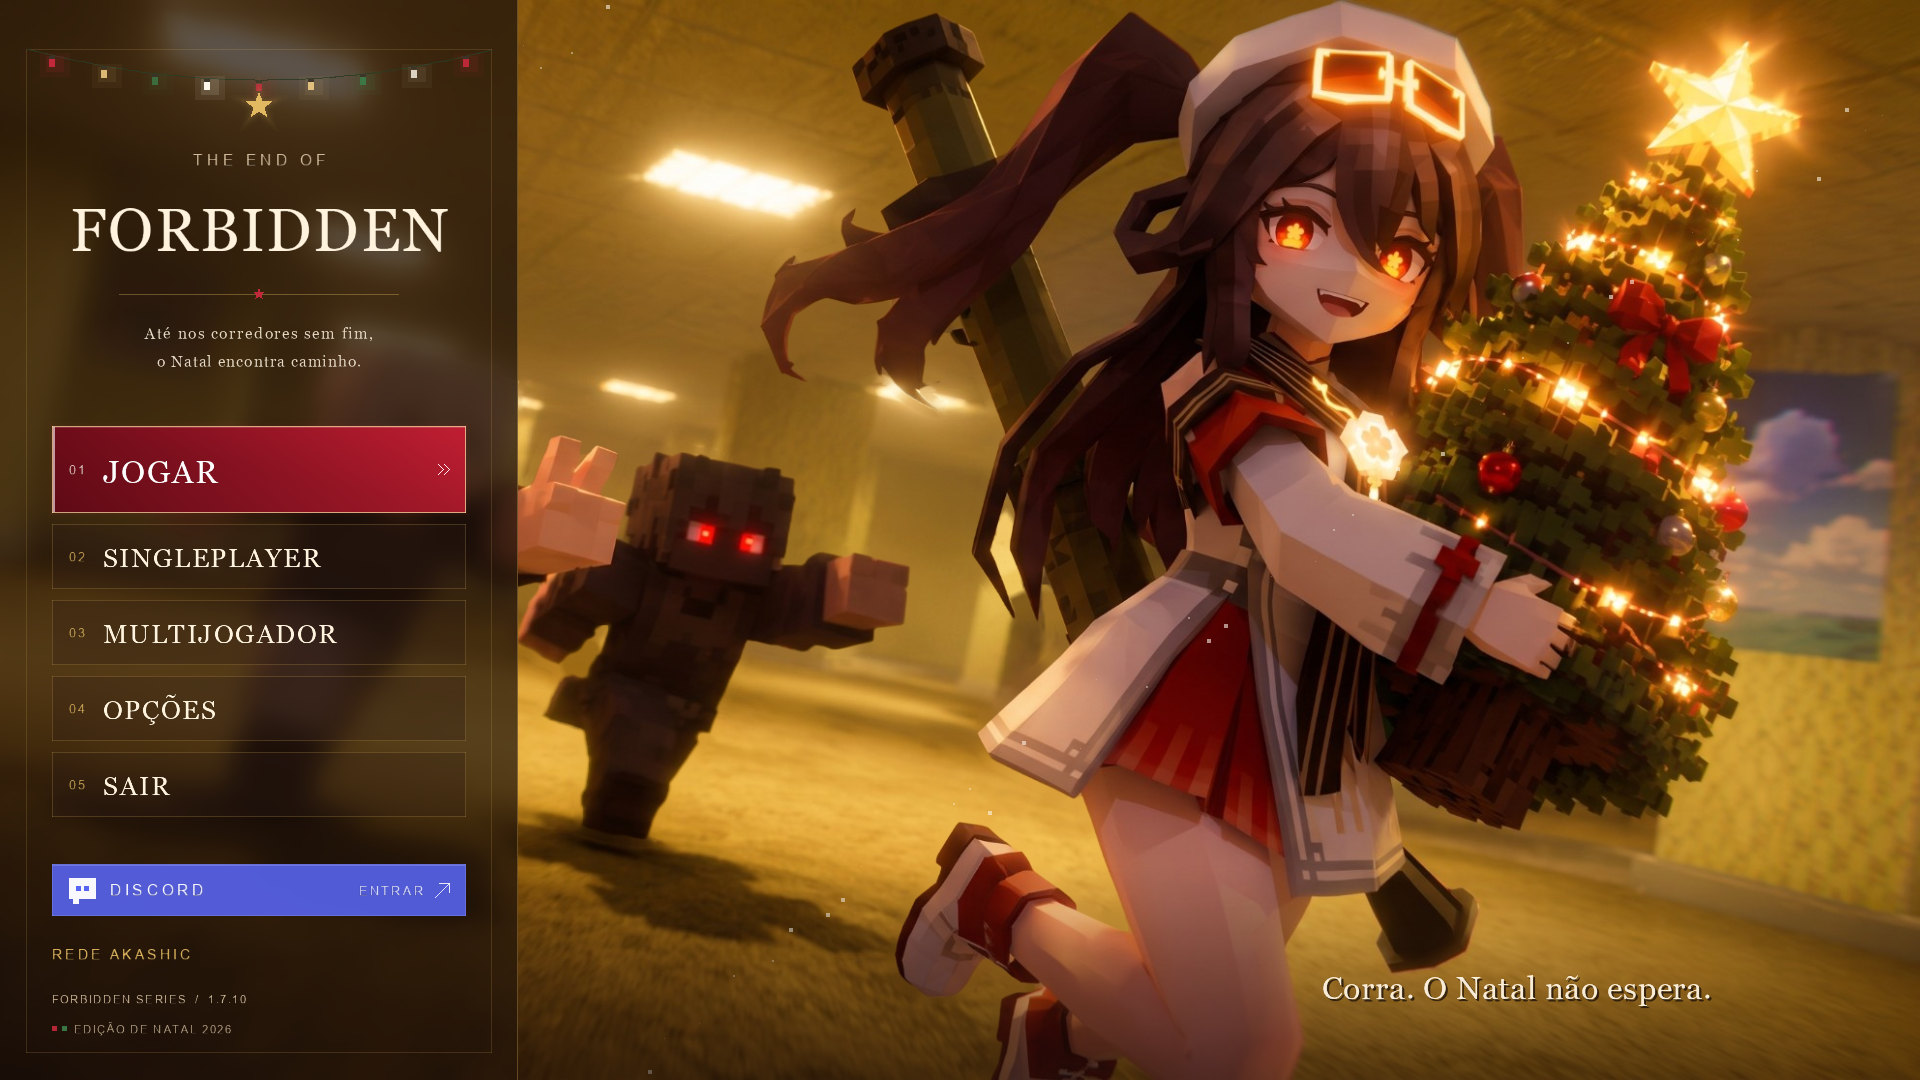
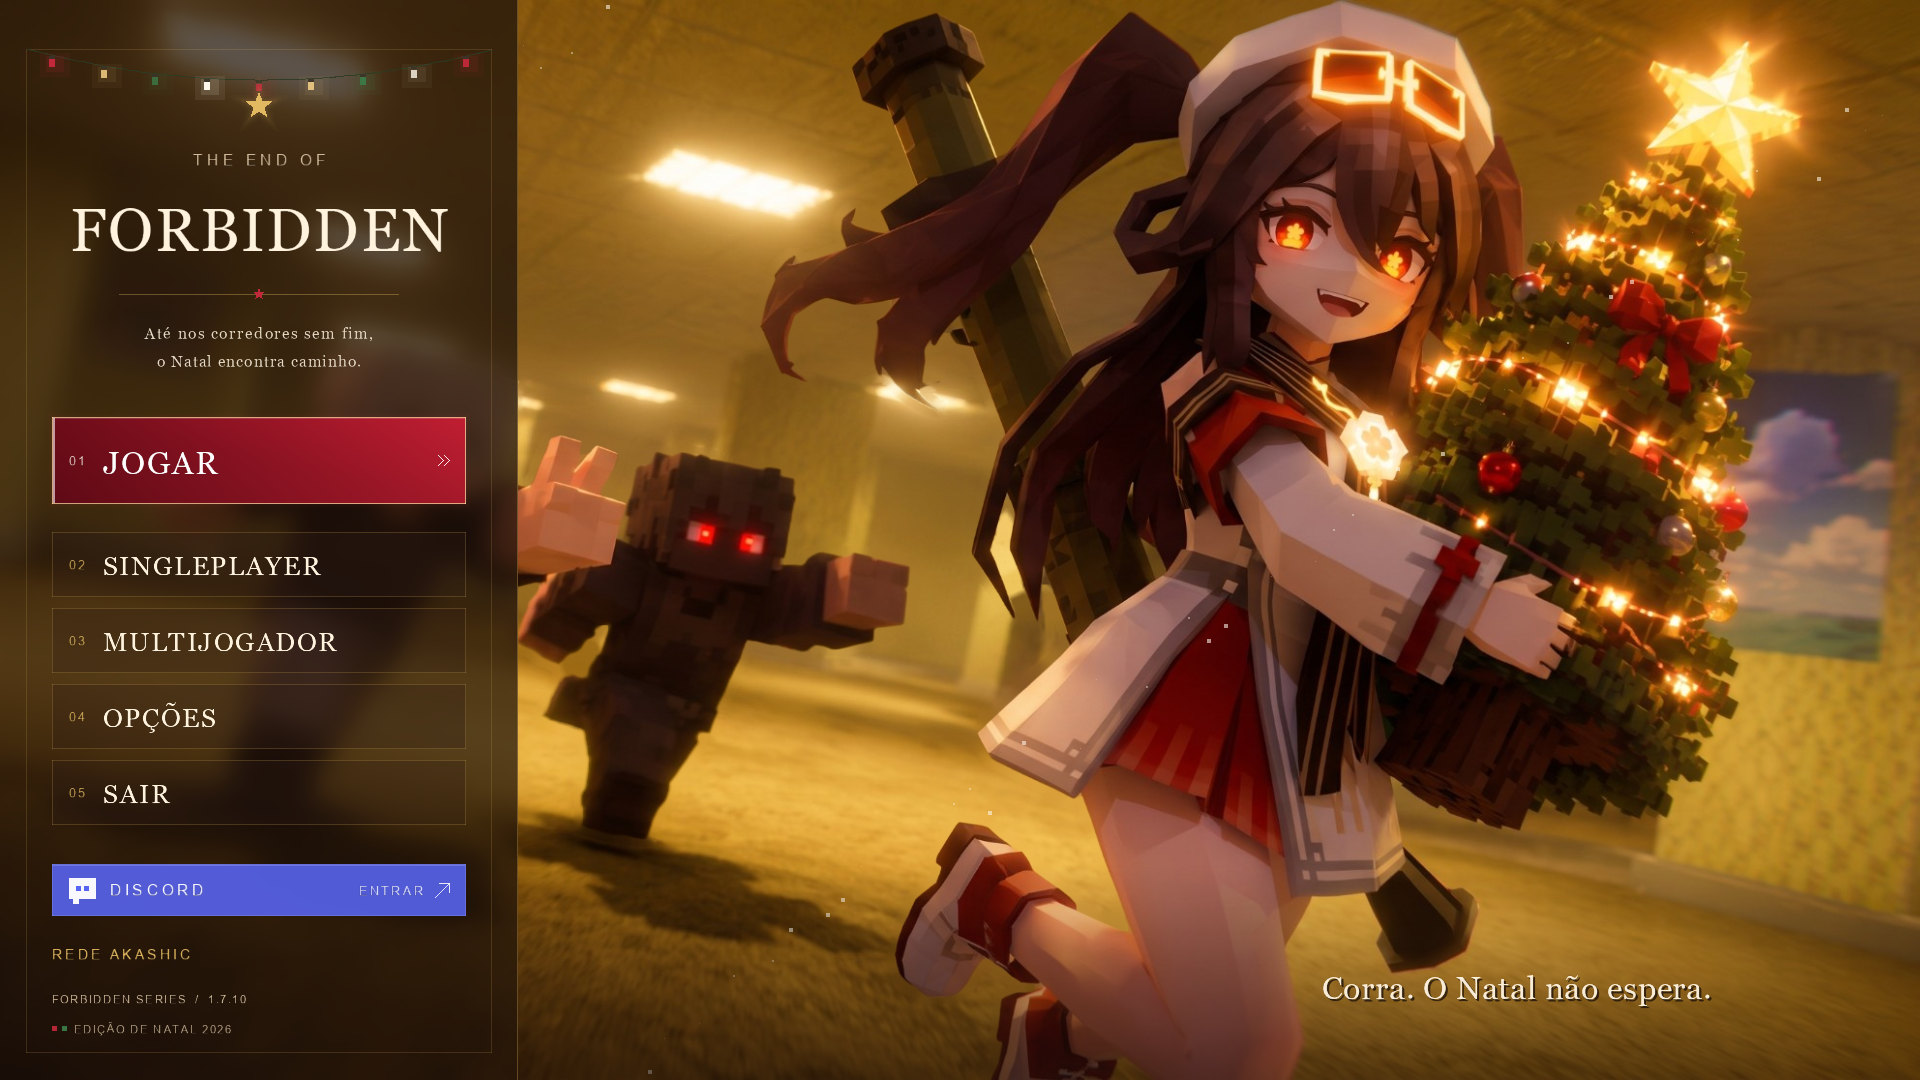
feat(menu): espaco maior abaixo do Jogar (alpha.8)
[DOC] Pedido do dono (17/11/2026): "padding" embaixo do Jogar para
diferencia-lo. Espaco sob o Jogar 2,6% da altura (1,0% entre os demais),
incluido no calculo do grupo: continua centralizado entre o lema e o
Discord (1080p: 39/39 px; 768: 27/28; 480: 35/36).

[LOG] PixelLayoutTests 2016 checagens (espaco sob o Jogar >= 2x o normal,
espacos regulares iguais, centralizacao <= 1,5 px); nucleo e 11 suites com
failures=0; amostras atualizadas.

Claude-Session: https://claude.ai/code/session_01ELhLZwBwQkuFCEsUJ3xDWT

Changed region(s): [[0.0312, 0.3667, 0.25, 0.6417], [0.0312, 0.7028, 0.0938, 0.7639], [0.0312, 0.6417, 0.125, 0.6722]]

diff --git a/src/main/java/br/com/redeakashic/cinematic/core/PixelLayout.java b/src/main/java/br/com/redeakashic/cinematic/core/PixelLayout.java
@@ -10,22 +10,25 @@ public final class PixelLayout {
     }
     /**
      * Fractions of the height: header rule under FORBIDDEN, end of the two-line tagline (shown when h>=600),
-     * button height, the taller Jogar button, the gap between buttons, and the Discord top.
+     * button height, the taller Jogar button, the gap between buttons, the larger gap under Jogar, and the Discord top.
      */
-    static final double HEADER_RULE=.272,TAGLINE_END=.350,BUTTON=.060,HERO=.081,GAP=.010,DISCORD_TOP=.800;
+    static final double HEADER_RULE=.272,TAGLINE_END=.350,BUTTON=.060,HERO=.081,GAP=.010,HERO_GAP=.026,DISCORD_TOP=.800;
     public double buttonX(){return Math.round(sidebar*.10);}
     /** Header rule (divider under the title); drawn by the renderer at exactly this row. */
     public double headerRuleY(){return Math.round(height*HEADER_RULE);}
     /** Upper bound of the free space: the end of the tagline when it is shown, else the header rule. */
     public double groupUpperBound(){return height>=600?Math.round(height*TAGLINE_END):headerRuleY();}
     /** Height of the five-button group (Jogar taller than the rest). */
-    public double groupHeight(){double gap=Math.round(height*GAP);return heroHeight()+(MAIN-1)*(gap+buttonHeight());}
+    public double groupHeight(){return heroHeight()+heroGap()+(MAIN-1)*buttonHeight()+(MAIN-2)*gap();}
+    /** Gap between the regular buttons. */
+    public double gap(){return Math.round(height*GAP);}
+    /** Larger gap under Jogar, to set it apart (owner request 17/11). */
+    public double heroGap(){return Math.round(height*HERO_GAP);}
     /** Top of the group, centered in the free space between the tagline (or header rule) and the Discord button (owner choice B, 17/11). */
     public double groupTop(){return Math.round(groupUpperBound()+(discordY()-groupUpperBound()-groupHeight())/2);}
     public double buttonY(int i){
         if(i<0||i>=MAIN)throw new IllegalArgumentException("index");
-        double gap=Math.round(height*GAP);
-        return i==0?groupTop():groupTop()+heroHeight()+gap+(i-1)*(buttonHeight()+gap);
+        return i==0?groupTop():groupTop()+heroHeight()+heroGap()+(i-1)*(buttonHeight()+gap());
     }
     public double buttonWidth(){return sidebar-2*buttonX();}
     /** Regular main-button height (Singleplayer..Sair). */

diff --git a/src/test/java/br/com/redeakashic/cinematic/core/PixelLayoutTests.java b/src/test/java/br/com/redeakashic/cinematic/core/PixelLayoutTests.java
@@ -17,6 +17,9 @@ public final class PixelLayoutTests {
             check(above>=p.height*.02,"breathing room above the group");
             check(p.groupUpperBound()==(p.height>=600?Math.round(p.height*.350):p.headerRuleY()),"upper bound: tagline end or header rule");
             check(p.heroHeight()>p.buttonHeight()*1.25||p.height<60,"Jogar taller");
+            double underJogar=p.buttonY(1)-(p.buttonY(0)+p.heroHeight()),between=p.buttonY(2)-(p.buttonY(1)+p.buttonHeight());
+            check(underJogar>=between*2||p.height<200,"larger gap under Jogar "+underJogar+"/"+between);
+            for(int k=2;k<PixelLayout.MAIN-1;k++)check(Math.abs(p.buttonY(k+1)-(p.buttonY(k)+p.buttonHeight())-between)<1e-9,"regular gaps equal");
             check(Math.abs(p.groupHeight()-(p.buttonY(PixelLayout.MAIN-1)+p.buttonHeight(PixelLayout.MAIN-1)-p.buttonY(0)))<1e-9,"group height consistent");
             check(p.hit(Double.NaN,1)==-1,"NaN input");check(p.hit(-1,-1)==-1,"outside input");
         }

diff --git a/docs/CHANGELOG.md b/docs/CHANGELOG.md
@@ -9,7 +9,7 @@ Detalhes e evidências por versão: `CRONOLOGIA.md` §2–3. Hashes: `LINEAGE.md
 - O menu continua sem URL/comando arbitrário: `MenuAction` é fechado e o único link é a constante testada.
 - Telas de multijogador (`GuiMultiplayer`, `GuiScreenAddServer`, `GuiScreenServerList`) entram nas allow-lists exatas do tema e da BGM do menu.
 - Correção: a tela "Conectando" com tema mostrava sempre `br2.xmxcloud.net:10511`; agora mostra o servidor que está sendo de fato conectado (`Minecraft.func_147104_D`), o que importa para servidores da lista.
-- Layout (ajustes do dono, 17/11): os 5 botões ficam **centralizados no espaço livre** entre o fim do lema (35 % da altura; a linha do header, 27,2 %, quando o lema não aparece) e o botão do Discord (80 %), opção "B". **Jogar mais alto** (8,1 % contra 6,0 % dos demais, texto 23 contra 19), já incluído na centralização (diferença ≤ 1 px, testada em `PixelLayoutTests`). O rótulo "EDIÇÃO DE NATAL" foi para o rodapé ("EDIÇÃO DE NATAL 2026", no lugar de "BOAS FESTAS · NATAL 2026", que cortava em 854/1024).
+- Layout (ajustes do dono, 17/11): os 5 botões ficam **centralizados no espaço livre** entre o fim do lema (35 % da altura; a linha do header, 27,2 %, quando o lema não aparece) e o botão do Discord (80 %), opção "B". **Jogar mais alto** (8,1 % contra 6,0 % dos demais, texto 23 contra 19) e com **espaço maior abaixo dele** (2,6 % contra 1,0 % entre os demais), ambos incluídos na centralização (diferença ≤ 1 px, testada em `PixelLayoutTests`). O rótulo "EDIÇÃO DE NATAL" foi para o rodapé ("EDIÇÃO DE NATAL 2026", no lugar de "BOAS FESTAS · NATAL 2026", que cortava em 854/1024).
 - Status: núcleo e 11 suítes PASSOU (CoreTests 49 cenários); amostras pelo código real; JAR na CI do PR; **não rodou no jogo; aprovação do dono pendente.**
 
 ## [0.7.0-alpha.7] — 2026-11-17 — Edição de Natal + AkashicMixer (candidata)

diff --git a/docs/CRONOLOGIA.md b/docs/CRONOLOGIA.md
@@ -201,7 +201,7 @@ Fato sobre a música: o usuário forneceu `BGM.mp3` (SHA-256 `1e7a442d…`, 6.47
 * O Multijogador volta depois de ter sido retirado na R04 (20/09) — decisão nova do dono, não regressão.
 * `MenuAction` ganha `MULTIPLAYER` e `DISCORD`; o link é uma constante (`MenuLinks`) aberta como no chat vanilla (`java.awt.Desktop`, depois `Sys.openURL`).
 * Tela de conexão passa a mostrar o endereço real do servidor.
-* Ajuste pedido pelo dono: grupo de botões centralizado no espaço livre entre o lema e o Discord (escolheu a opção B entre duas amostras), Jogar mais alto, "EDIÇÃO DE NATAL" no rodapé. [DOC]
+* Ajuste pedido pelo dono: grupo de botões centralizado no espaço livre entre o lema e o Discord (escolheu a opção B entre duas amostras), Jogar mais alto e com espaço maior abaixo dele, "EDIÇÃO DE NATAL" no rodapé. [DOC]
 
 ---
 
